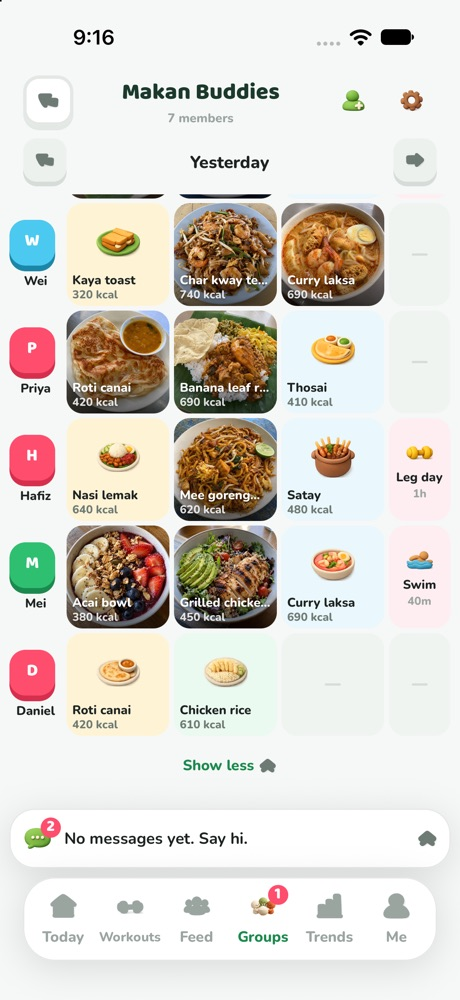
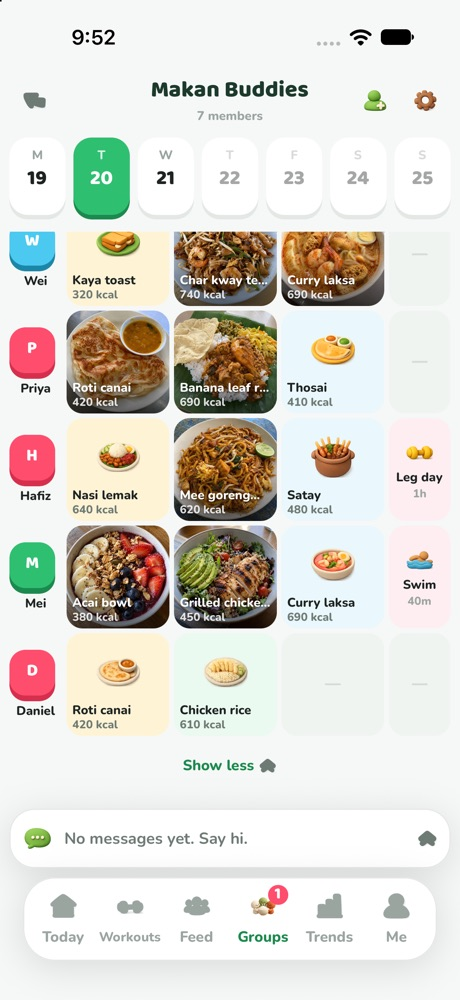
Pick the board's day from a week strip and centre the group name

diff --git a/apps/mobile/src/features/groups/Board.tsx b/apps/mobile/src/features/groups/Board.tsx
@@ -1,4 +1,4 @@
-import { format, parseISO, subDays } from 'date-fns'
+import { parseISO, subDays } from 'date-fns'
 import { useIsFocused, useRouter } from 'expo-router'
 import { memo, useCallback, useEffect, useMemo, useRef, useState } from 'react'
 import { useTranslation } from 'react-i18next'
@@ -26,7 +26,6 @@ import {
 import { workoutIcon, workoutKindKey } from '@/features/activity/workoutKind'
 import { QueryNotice } from '@/features/social/components'
 import { track } from '@/lib/analytics'
-import { datePattern } from '@/lib/dates'
 import { useThemeColors } from '@/theme/useTheme'
 import {
   Button,
@@ -46,6 +45,7 @@ import { InviteSheet } from './InviteSheet'
 import { MealSheet } from './MealSheet'
 import { EntryPicture, MEAL_TINT, PersonAvatar, shortDuration, useGroupTask } from './parts'
 import { takeOpenDay } from './store'
+import { GroupWeekStrip } from './WeekStrip'
 
 /** How far back the pager goes. The server answers no further, nor signs older photos. */
 const DAYS = 60
@@ -55,6 +55,8 @@ const GAP = 4
 /** The page's side margin. The grid has no card around it, so the tiles get the width. */
 const EDGE = 8
 const MEMBER_COLUMN = 46
+/** Each side of the header: room for its two buttons, so the title centres on the screen. */
+const HEADER_SIDE = 88
 /** Text in a tile is capped so a large Dynamic Type size cannot push it out of a fixed square. */
 const TILE_TEXT = 1.3
 const SKELETON_ROWS = ['a', 'b', 'c', 'd']
@@ -113,8 +115,8 @@ function shortNames(members: readonly BoardMember[]): Map<string, string> {
 }
 
 /**
- * One group, one page per day. Swiping sideways goes back a day; the chevrons
- * do the same for anyone who does not think to swipe. The chat for the day on
+ * One group, one page per day. Swiping sideways goes back a day, and the week
+ * strip under the header picks any day of the last sixty, the way Today's does. The chat for the day on
  * screen sits in a bar above the tabs and opens as a sheet.
  */
 export function GroupBoardScreen({ groupId, onBack }: { groupId: string; onBack: () => void }) {
@@ -151,10 +153,6 @@ export function GroupBoardScreen({ groupId, onBack }: { groupId: string; onBack:
     pager.current?.scrollToIndex({ index, animated: false })
   }, [index])
 
-  const go = (next: number) => {
-    const target = days[Math.max(0, Math.min(DAYS - 1, next))]
-    if (target) setDay(target)
-  }
   const onMomentumEnd = (event: NativeSyntheticEvent<NativeScrollEvent>) => {
     const target = days[Math.round(event.nativeEvent.contentOffset.x / grid.width)]
     if (target && target !== day) setDay(target)
@@ -162,12 +160,6 @@ export function GroupBoardScreen({ groupId, onBack }: { groupId: string; onBack:
 
   const name = summary?.name ?? board.data?.group.name
   const memberCount = summary?.member_count ?? board.data?.group.member_count
-  const dayLabel =
-    index === 0
-      ? t('common:date.today')
-      : index === 1
-        ? t('common:date.yesterday')
-        : format(parseISO(day), datePattern('weekdayDayMonth'))
   const openInvite = useCallback(() => setInviteOpen(true), [])
 
   const renderItem = useCallback<ListRenderItem<string>>(
@@ -190,11 +182,15 @@ export function GroupBoardScreen({ groupId, onBack }: { groupId: string; onBack:
 
   return (
     <View className="flex-1">
-      <View className="gap-2 px-gutter pb-2 pt-1">
-        <View className="flex-row items-center gap-2">
-          <IconButton size="sm" accessibilityLabel={t('back')} onPress={onBack}>
-            <Icon set="ui" name="chevron-left" size={20} tintColor={colors.muted} />
-          </IconButton>
+      <View className="gap-3 pb-3 pt-1" style={{ paddingHorizontal: EDGE }}>
+        {/* Equal sides, so the name sits in the middle of the screen rather
+            than in the middle of whatever the buttons leave. */}
+        <View className="flex-row items-center">
+          <View style={{ width: HEADER_SIDE }} className="flex-row">
+            <IconButton size="sm" variant="ghost" accessibilityLabel={t('back')} onPress={onBack}>
+              <Icon set="ui" name="chevron-left" size={22} tintColor={colors.muted} />
+            </IconButton>
+          </View>
           <View className="min-w-0 flex-1 items-center">
             <Text variant="subtitle" numberOfLines={1} maxFontSizeMultiplier={1.3}>
               {name ?? ' '}
@@ -203,48 +199,31 @@ export function GroupBoardScreen({ groupId, onBack }: { groupId: string; onBack:
               <Text variant="micro">{t('members', { count: memberCount })}</Text>
             ) : null}
           </View>
-          <IconButton
-            size="sm"
-            variant="ghost"
-            accessibilityLabel={t('inviteFriends')}
-            onPress={openInvite}
-          >
-            <Icon set="system" name="user-add" size={22} />
-          </IconButton>
-          <IconButton
-            size="sm"
-            variant="ghost"
-            accessibilityLabel={t('settings')}
-            onPress={() => router.push({ pathname: '/group/[id]', params: { id: groupId } })}
-          >
-            <Icon set="system" name="settings" size={22} />
-          </IconButton>
+          <View style={{ width: HEADER_SIDE }} className="flex-row justify-end">
+            <IconButton
+              size="sm"
+              variant="ghost"
+              accessibilityLabel={t('inviteFriends')}
+              onPress={openInvite}
+            >
+              <Icon set="system" name="user-add" size={22} />
+            </IconButton>
+            <IconButton
+              size="sm"
+              variant="ghost"
+              accessibilityLabel={t('settings')}
+              onPress={() => router.push({ pathname: '/group/[id]', params: { id: groupId } })}
+            >
+              <Icon set="system" name="settings" size={22} />
+            </IconButton>
+          </View>
         </View>
-        <View className="flex-row items-center justify-between">
-          <IconButton
-            size="xs"
-            variant="subtle"
-            hitSlop={8}
-            accessibilityLabel={t('previousDay')}
-            disabled={index >= DAYS - 1}
-            onPress={() => go(index + 1)}
-          >
-            <Icon set="ui" name="chevron-left" size={18} tintColor={colors.muted} />
-          </IconButton>
-          <Text variant="label" accessibilityLiveRegion="polite">
-            {dayLabel}
-          </Text>
-          <IconButton
-            size="xs"
-            variant="subtle"
-            hitSlop={8}
-            accessibilityLabel={t('nextDay')}
-            disabled={index === 0}
-            onPress={() => go(index - 1)}
-          >
-            <Icon set="ui" name="chevron-right" size={18} tintColor={colors.muted} />
-          </IconButton>
-        </View>
+        <GroupWeekStrip
+          day={day}
+          today={today}
+          oldest={days[DAYS - 1] ?? today}
+          onChange={setDay}
+        />
       </View>
 
       <FlatList
@@ -533,7 +512,7 @@ function MealTile({
         {/* Keyed on the foods, so one moved away or deleted starts the tile
             again at its first food rather than on a blank page. Several foods
             swipe here; on iOS the swipe stays in the tile, and the day changes
-            from any other part of the board or the chevrons. */}
+            from any other part of the board or the week strip. */}
         <ScrollView
           key={entries.map((entry) => entry.id).join()}
           horizontal

diff --git a/apps/mobile/src/features/groups/WeekStrip.tsx b/apps/mobile/src/features/groups/WeekStrip.tsx
@@ -1,0 +1,85 @@
+import { format, parseISO, startOfWeek } from 'date-fns'
+import { useEffect, useMemo, useRef, useState } from 'react'
+import { useTranslation } from 'react-i18next'
+import { FlatList, View } from 'react-native'
+import { dateKey } from '@/data'
+import { WEEK_STARTS_ON, weekDays, weekStarts } from '@/features/logging/week'
+import { datePattern } from '@/lib/dates'
+import { DateStrip, type DateStripDay } from '@/ui'
+
+/**
+ * The board's days as the Today tab draws them: a week of cells, earlier weeks
+ * a swipe away. Only as far back as the board reaches (`oldest`), and never
+ * ahead of today. No dots: a board is everyone's day, not the viewer's goal.
+ *
+ * It follows the board as well as driving it, so swiping the board back into
+ * last week turns the strip to last week.
+ */
+export function GroupWeekStrip({
+  day,
+  today,
+  oldest,
+  onChange,
+}: {
+  day: string
+  today: string
+  oldest: string
+  onChange: (day: string) => void
+}) {
+  const { t } = useTranslation('logging')
+  const [width, setWidth] = useState(0)
+  const list = useRef<FlatList<string>>(null)
+  const weeks = useMemo(() => {
+    const first = dateKey(startOfWeek(parseISO(oldest), { weekStartsOn: WEEK_STARTS_ON }))
+    return weekStarts(today).filter((start) => start >= first)
+  }, [today, oldest])
+  const week = dateKey(startOfWeek(parseISO(day), { weekStartsOn: WEEK_STARTS_ON }))
+  const page = Math.max(0, weeks.indexOf(week))
+  const initial = useRef(page).current
+
+  useEffect(() => {
+    if (width > 0) list.current?.scrollToIndex({ index: page, animated: true })
+  }, [page, width])
+
+  return (
+    <View onLayout={(event) => setWidth(event.nativeEvent.layout.width)}>
+      {width > 0 ? (
+        <FlatList
+          ref={list}
+          data={weeks}
+          keyExtractor={(start) => start}
+          horizontal
+          pagingEnabled
+          showsHorizontalScrollIndicator={false}
+          initialScrollIndex={initial}
+          getItemLayout={(_data, index) => ({ length: width, offset: width * index, index })}
+          onScrollToIndexFailed={({ index }) =>
+            list.current?.scrollToOffset({ offset: width * index, animated: false })
+          }
+          initialNumToRender={1}
+          windowSize={2}
+          renderItem={({ item }) => {
+            const cells: DateStripDay[] = weekDays(item).map((date) => {
+              const at = parseISO(date)
+              const ahead = date > today
+              return {
+                key: date,
+                initial: format(at, 'EEEEE'),
+                day: at.getDate(),
+                disabled: ahead || date < oldest,
+                accessibilityLabel: t(`week.a11y.${ahead ? 'ahead' : 'plain'}`, {
+                  day: format(at, datePattern('weekdayDayMonthLong')),
+                }),
+              }
+            })
+            return (
+              <View style={{ width }}>
+                <DateStrip days={cells} value={day} onChange={onChange} />
+              </View>
+            )
+          }}
+        />
+      ) : null}
+    </View>
+  )
+}

diff --git a/apps/mobile/src/i18n/ta.ts b/apps/mobile/src/i18n/ta.ts
@@ -2304,8 +2304,6 @@ export const ta = {
     unread_other: '{{count}} படிக்கவில்லை',
     reportGroup: '{{name}} ஐ புகார் செய்யவா?',
     reportedGroup: 'புகார் செய்யப்பட்டது',
-    previousDay: 'முந்தைய நாள்',
-    nextDay: 'அடுத்த நாள்',
     you: 'நீங்கள்',
     showMore_one: 'மேலும் {{count}} காட்டு',
     showMore_other: 'மேலும் {{count}} காட்டு',

diff --git a/apps/mobile/src/i18n/bn.ts b/apps/mobile/src/i18n/bn.ts
@@ -2281,8 +2281,6 @@ export const bn = {
     unread_other: '{{count}}টি অপঠিত',
     reportGroup: '{{name}} রিপোর্ট করবেন?',
     reportedGroup: 'রিপোর্ট করা হয়েছে',
-    previousDay: 'আগের দিন',
-    nextDay: 'পরের দিন',
     you: 'আপনি',
     showMore_one: 'আরও {{count}} জন দেখান',
     showMore_other: 'আরও {{count}} জন দেখান',

diff --git a/apps/mobile/src/i18n/hi.ts b/apps/mobile/src/i18n/hi.ts
@@ -2276,8 +2276,6 @@ export const hi = {
     unread_other: '{{count}} अपठित',
     reportGroup: '{{name}} की रिपोर्ट करें?',
     reportedGroup: 'रिपोर्ट किया गया',
-    previousDay: 'पिछला दिन',
-    nextDay: 'अगला दिन',
     you: 'आप',
     showMore_one: '{{count}} और दिखाएँ',
     showMore_other: '{{count}} और दिखाएँ',

diff --git a/apps/mobile/src/i18n/th.ts b/apps/mobile/src/i18n/th.ts
@@ -2272,8 +2272,6 @@ export const th = {
     unread_other: 'ยังไม่อ่าน {{count}}',
     reportGroup: 'รายงาน {{name}}?',
     reportedGroup: 'รายงานแล้ว',
-    previousDay: 'วันก่อนหน้า',
-    nextDay: 'วันถัดไป',
     you: 'คุณ',
     showMore_one: 'แสดงอีก {{count}} คน',
     showMore_other: 'แสดงอีก {{count}} คน',

diff --git a/apps/mobile/src/i18n/ja.ts b/apps/mobile/src/i18n/ja.ts
@@ -2293,8 +2293,6 @@ export const ja = {
     unread_other: '未読 {{count}} 件',
     reportGroup: '{{name}}を通報しますか？',
     reportedGroup: '通報しました',
-    previousDay: '前の日',
-    nextDay: '次の日',
     you: 'あなた',
     showMore_one: 'あと {{count}} 人を表示',
     showMore_other: 'あと {{count}} 人を表示',

diff --git a/apps/mobile/src/i18n/fil.ts b/apps/mobile/src/i18n/fil.ts
@@ -2326,8 +2326,6 @@ export const fil = {
     unread_other: '{{count}} hindi pa nababasa',
     reportGroup: 'I-report ang {{name}}?',
     reportedGroup: 'Na-report',
-    previousDay: 'Nakaraang araw',
-    nextDay: 'Susunod na araw',
     you: 'Ikaw',
     showMore_one: 'Ipakita ang {{count}} pa',
     showMore_other: 'Ipakita ang {{count}} pa',

diff --git a/apps/mobile/src/i18n/id.ts b/apps/mobile/src/i18n/id.ts
@@ -2304,8 +2304,6 @@ export const id = {
     unread_other: '{{count}} belum dibaca',
     reportGroup: 'Laporkan {{name}}?',
     reportedGroup: 'Dilaporkan',
-    previousDay: 'Hari sebelumnya',
-    nextDay: 'Hari berikutnya',
     you: 'Kamu',
     showMore_one: 'Tampilkan {{count}} lagi',
     showMore_other: 'Tampilkan {{count}} lagi',

diff --git a/apps/mobile/src/i18n/ko.ts b/apps/mobile/src/i18n/ko.ts
@@ -2279,8 +2279,6 @@ export const ko = {
     unread_other: '읽지 않음 {{count}}',
     reportGroup: '{{name}} 신고할까요?',
     reportedGroup: '신고했어요',
-    previousDay: '이전 날',
-    nextDay: '다음 날',
     you: '나',
     showMore_one: '{{count}}명 더 보기',
     showMore_other: '{{count}}명 더 보기',

diff --git a/apps/mobile/src/i18n/ms.ts b/apps/mobile/src/i18n/ms.ts
@@ -2324,8 +2324,6 @@ export const ms = {
     unread_other: '{{count}} belum dibaca',
     reportGroup: 'Laporkan {{name}}?',
     reportedGroup: 'Dilaporkan',
-    previousDay: 'Hari sebelumnya',
-    nextDay: 'Hari seterusnya',
     you: 'Anda',
     showMore_one: 'Tunjuk {{count}} lagi',
     showMore_other: 'Tunjuk {{count}} lagi',

diff --git a/apps/mobile/src/i18n/vi.ts b/apps/mobile/src/i18n/vi.ts
@@ -2295,8 +2295,6 @@ export const vi = {
     unread_other: '{{count}} chưa đọc',
     reportGroup: 'Báo cáo {{name}}?',
     reportedGroup: 'Đã báo cáo',
-    previousDay: 'Ngày trước',
-    nextDay: 'Ngày sau',
     you: 'Bạn',
     showMore_one: 'Xem thêm {{count}}',
     showMore_other: 'Xem thêm {{count}}',
